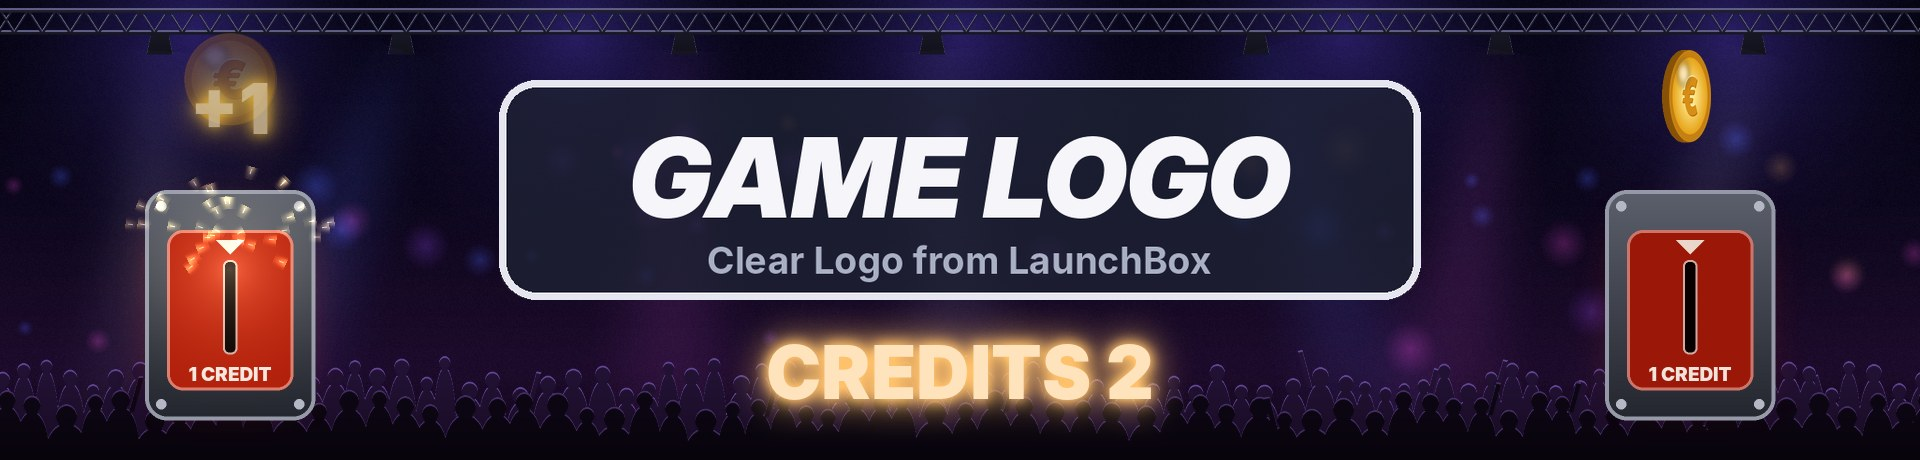
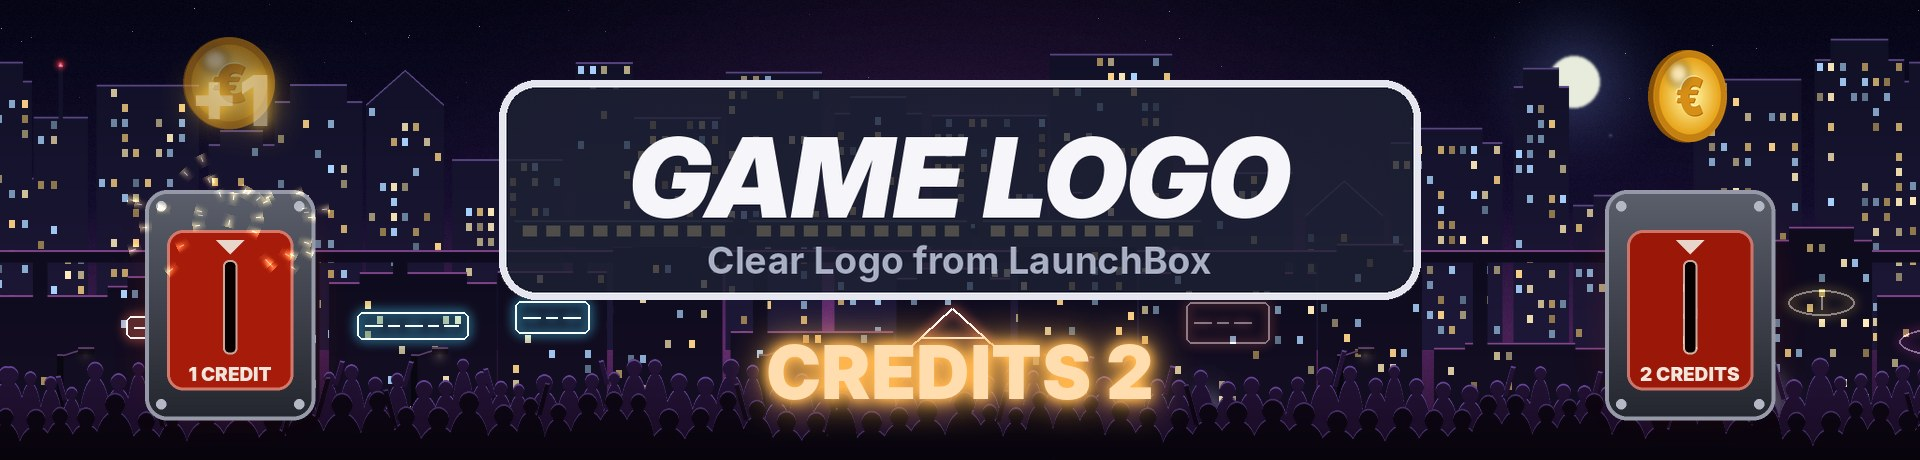
Docs: pictures and game tracking brought up to 1.29.3
The LED pictures of the README come from the code of today (title
without the maker, the timer between its lines), a new one shows the
simple panel of the shoot'em ups with its plane, and the HD coin screen
shows the doors of an MVS (1 credit on the left, 2 on the right).
tools/docs_images.py makes them again. PROGRESS.md tells the shooter
panel, the 693 Neo Geo sets recognized with RetroArch and the coins.

Claude-Session: https://claude.ai/code/session_01UHMmGB2iQAKSvNdTFigVJ4

diff --git a/tools/docs_images.py b/tools/docs_images.py
@@ -1,0 +1,173 @@
+"""Pictures of the README (docs/images), made with the real code of ArcadeDMD and simulated values.
+
+Writes led_fight.gif (King of Fighters '98, from the game logo to the fight), led_metal_slug.gif, led_shooter.gif
+(Aero Fighters 2, the simple panel of the shoot'em ups and its plane) and hd_coin_screen.jpg (the coin screen of an
+MVS, 1 credit on the left and 2 on the right). In English, like the other pictures. The game logo is the
+"GAME LOGO / Clear Logo from LaunchBox" badge, kept in a fake LaunchBox folder, never a real logo.
+
+Images du README faites avec le vrai code d'ArcadeDMD et des valeurs simulées.
+
+usage: python tools/docs_images.py [out_folder]      (docs/images by default, needs pygame and Pillow)
+"""
+import os
+import shutil
+import subprocess
+import sys
+import tempfile
+import time
+
+ROOT = os.path.dirname(os.path.dirname(os.path.abspath(__file__)))
+os.environ["ARCADEDMD_LANG"] = "en"
+os.environ["SDL_VIDEODRIVER"] = "dummy"
+os.environ.setdefault("SDL_AUDIODRIVER", "dummy")
+TMP = tempfile.mkdtemp(prefix="arcadedmd_docs_")
+KIT = os.path.join(TMP, "kit")
+shutil.copytree(ROOT, KIT, ignore=shutil.ignore_patterns(".git", "runtime", "__pycache__", "learned", "obs", "dist", "artwork",
+                                                         "appris"))
+sys.path.insert(0, KIT)
+import pygame  # noqa: E402
+from PIL import Image, ImageDraw, ImageFont  # noqa: E402
+from dmd import app  # noqa: E402
+from dmd.i18n import set_language  # noqa: E402
+from dmd.memvalues import derive  # noqa: E402
+from dmd.outputs import LedRenderer, PreviewOutput  # noqa: E402
+
+set_language("en")
+OUT = sys.argv[1] if len(sys.argv) > 1 else os.path.join(ROOT, "docs", "images")
+W, H = 1920, 460
+FPS = 25
+LOG = app.Logger(None, echo=False)
+CFG = app.load_config(KIT, LOG)
+CFG = dict(CFG, retroarch={"enabled": False}, textfiles={"enabled": False})
+
+
+def placeholder_logo():
+    img = Image.new("RGBA", (1000, 250), (0, 0, 0, 0))
+    d = ImageDraw.Draw(img)
+    d.rounded_rectangle([8, 8, 992, 242], radius=40, fill=(30, 34, 52, 200), outline=(230, 230, 240, 255), width=8)
+    f = ImageFont.truetype(os.path.join(KIT, "fonts", "InterDisplay-BlackItalic.otf"), 118)
+    d.text((500, 112), "GAME LOGO", font=f, fill=(245, 245, 250, 255), anchor="mm")
+    f2 = ImageFont.truetype(os.path.join(KIT, "fonts", "Inter-Bold.otf"), 40)
+    d.text((500, 200), "Clear Logo from LaunchBox", font=f2, fill=(170, 176, 196, 255), anchor="mm")
+    return img
+
+
+LB = os.path.join(TMP, "launchbox")
+os.makedirs(os.path.join(LB, "Data", "Platforms"))
+os.makedirs(os.path.join(LB, "Images", "Arcade", "Clear Logo"))
+with open(os.path.join(LB, "Data", "Platforms", "Arcade.xml"), "w", encoding="utf-8") as f:
+    f.write('<?xml version="1.0" standalone="yes"?>\n<LaunchBox>\n  <Game><Title>The King of Fighters \'98: The Slugfest</Title>'
+            '<ApplicationPath>..\\Roms\\FBNeo\\kof98.zip</ApplicationPath><Platform>Arcade</Platform></Game>\n</LaunchBox>')
+placeholder_logo().save(os.path.join(LB, "Images", "Arcade", "Clear Logo", "The King of Fighters _98_ The Slugfest-01.png"))
+
+
+def hd_output():
+    out = PreviewOutput({"enabled": True, "x": 0, "y": 0, "width": W, "height": H, "mode": "always", "style": "hd",
+                         "launchbox": LB}, lambda m: None)
+    t0 = time.time()
+    while not out.hd_view.logos.ready and time.time() - t0 < 10:
+        time.sleep(0.05)
+    clock = [0.0]
+    out.hd_view.clock = lambda: clock[0]
+    return out, clock
+
+
+def save_gif(frames, path):
+    while len(frames) > 1 and frames[0].getextrema()[0][1] < 40 and frames[0].convert("L").getextrema()[1] < 40:
+        frames = frames[1:]                               # no black frames at the start / pas d'images noires au début
+    frames[0].save(path, save_all=True, append_images=frames[1:], duration=80, loop=0, optimize=True)
+    if shutil.which("gifsicle"):
+        subprocess.run(["gifsicle", "-O3", "--colors", "256", "--batch", path], check=False)
+    print(path, len(frames), "frames", os.path.getsize(path) // 1024, "KB")
+
+
+def led_fight():
+    """King of Fighters '98: the logo, the coin screen, two coins, PRESS START, then the fight."""
+    out, clock = hd_output()
+    eng = app.Engine(KIT, CFG, [out], LOG, demo_game="kof98")
+    eng.sim = None                                    # values driven here / valeurs pilotées ici
+    eng.demo_until = None
+    for k in ("health", "health_p2", "time"):
+        eng.state.values.pop(k, None)
+    v = {"p1_mode": 0, "p2_mode": 0, "credits": 0, "score": 0, "backdrop": 5, "stage": 0,
+         "_p1_lost": 0, "_p1_ch0": 0, "_p1_ch1": 1, "_p1_ch2": 2, "_p1_ord0": 0, "_p1_ord1": 1, "_p1_ord2": 2,
+         "_p2_lost": 0, "_p2_ch0": 21, "_p2_ch1": 22, "_p2_ch2": 23, "_p2_ord0": 0, "_p2_ord1": 1, "_p2_ord2": 2}
+    events = [(3.4, {"credits": 1}), (4.9, {"credits": 2}),
+              (9.4, {"p1_mode": 1, "credits": 1, "health": 100, "health_p2": 100, "time": 60}),
+              (10.6, {"health_p2": 88, "score": 600}), (11.1, {"health_p2": 80, "score": 1000}), (11.5, {"health": 92}),
+              (12.2, {"health_p2": 62, "score": 2800})]
+    led = LedRenderer(6)
+    frames, tick = [], 10.4
+    for i in range(int(13.0 * FPS)):
+        t = i / FPS
+        clock[0] = t
+        while events and events[0][0] <= t:
+            v.update(events.pop(0)[1])
+        if v.get("time") and t >= tick:
+            v["time"] -= 1
+            tick += 1.0
+        for k, val in v.items():
+            eng.state.update(k, val, t)
+        if eng.derived:
+            for k, val in derive(eng.derived, eng.state.values).items():
+                eng.state.update(k, val, t, quiet=True)
+        frame = eng.step(t)
+        out.hd_next = 0.0
+        out.send(frame)
+        if i % 2 == 0:
+            frames.append(led.render(frame).convert("RGB"))
+    out.close()
+    save_gif(frames, os.path.join(OUT, "led_fight.gif"))
+
+
+def led_demo(game, name, t_from, t_to):
+    """The demo of a game, as demo_neogeo.bat plays it. / La démo d'un jeu."""
+    eng = app.Engine(KIT, CFG, [], LOG, demo_game=game)
+    led = LedRenderer(6)
+    frames = []
+    for i in range(int(t_to * FPS)):
+        t = i / FPS
+        frame = eng.step(t)
+        if t >= t_from and i % 2 == 0:
+            frames.append(led.render(frame).convert("RGB"))
+    save_gif(frames, os.path.join(OUT, name))
+
+
+def hd_coin_screen():
+    """The coin screen of an MVS under RetroArch: two coins on the left, the right door gives 2 credits."""
+    out, clock = hd_output()
+    eng = app.Engine(KIT, CFG, [out], LOG)
+    names = ["bios_request", "bios_mode", "bios_timer", "bios_mvs", "p1_mode", "p2_mode", "health", "health_p2", "time"]
+    eng.handle_event({"t": "start", "game": "kof98", "system": "kof98", "description": "The King of Fighters '98",
+                      "values": names}, 0.0, "retroarch")
+    bios = {"bios_request": 2, "bios_mode": 1, "bios_timer": 0, "bios_mvs": 0x80, "p1_mode": 0, "p2_mode": 0}
+    coins = [3.4, 4.9]
+    best = None
+    for i in range(int(6.2 * FPS)):
+        t = i / FPS
+        clock[0] = t
+        if coins and t >= coins[0]:
+            coins.pop(0)
+            eng.coin_in(0, t)
+            bios = dict(bios, bios_request=3, bios_timer=30)
+        eng.handle_event({"t": "v", "v": bios}, t, "retroarch")
+        frame = eng.step(t)
+        out.hd_next = 0.0
+        out.send(frame)
+        cd = out.hd_view.coins
+        if cd is not None and cd.last_land is not None and 0.34 <= t - cd.last_land <= 0.42 and cd.shown == 2:
+            best = Image.frombytes("RGB", (W, H), pygame.image.tostring(out.screen, "RGB"))
+    out.close()
+    path = os.path.join(OUT, "hd_coin_screen.jpg")
+    best.save(path, quality=88)
+    print(path, os.path.getsize(path) // 1024, "KB")
+
+
+if __name__ == "__main__":
+    os.makedirs(OUT, exist_ok=True)
+    pygame.init()
+    led_fight()
+    led_demo("mslug", "led_metal_slug.gif", 0.0, 12.0)
+    led_demo("sonicwi2", "led_shooter.gif", 11.0, 25.0)
+    hd_coin_screen()
+    shutil.rmtree(TMP, ignore_errors=True)

diff --git a/PROGRESS.md b/PROGRESS.md
@@ -4,6 +4,8 @@ Game by game, what ArcadeDMD already knows how to show, and what comes next. Upd
 
 Jeu par jeu, ce qu'ArcadeDMD sait déjà afficher, et ce qui vient ensuite. Mis à jour à chaque version.
 
+Up to date with version 1.29.3. / À jour de la version 1.29.3.
+
 For each game / Pour chaque jeu
 - **Values / Valeurs.** What is read from the game's memory, such as each player's score, lives, bombs, level or health. / Ce qui est lu dans la mémoire du jeu, comme le score de chaque joueur, les vies, les bombes, le niveau ou la vie.
 - **Panel / Dalle.** A 128 x 32 LED scene of its own (Pixelcade, ZeDMD). / Une scène LED 128 x 32 à son image.
@@ -99,6 +101,10 @@ Scène de combat commune sur la dalle, avec l'écran des pièces depuis la 1.16.
 The best-known games came first, and now every game of the list has a panel scene and an HD scene of its own. 🟡 in Values means the score still has to be learned with `learn.bat`, ⬜ that no value of the game is known yet.
 
 Les plus connus sont passés d'abord, et maintenant chaque jeu de la liste a sa scène de dalle et sa scène HD. 🟡 dans Valeurs veut dire que le score reste à apprendre avec `learn.bat`, ⬜ qu'aucune valeur du jeu n'est encore connue.
+
+Since 1.28 and 1.29, the fifteen shoot'em ups (Blazing Star, Pulstar, Last Resort, Aero Fighters 2 and 3, Strikers 1945 Plus, Ghost Pilots, Alpha Mission II, Viewpoint, Zed Blade, Prehistoric Isle 2, Andro Dunos, Captain Tomaday, Choutetsu Brikin'ger, Last Hope) have a simpler panel. The score in big digits, the ship that follows the stick and fires, the lives and the bombs, and the events of the game one at a time (BOMB!, POWER UP, 1UP...), with explosions drawn pixel by pixel. On the HD screen, their enemies blow up when the game scores points.
+
+Depuis la 1.28 et la 1.29, les quinze shoot'em up (Blazing Star, Pulstar, Last Resort, Aero Fighters 2 et 3, Strikers 1945 Plus, Ghost Pilots, Alpha Mission II, Viewpoint, Zed Blade, Prehistoric Isle 2, Andro Dunos, Captain Tomaday, Choutetsu Brikin'ger, Last Hope) ont une dalle plus simple. Le score en gros, le vaisseau qui suit le stick et tire, les vies et les bombes, et les événements du jeu un par un (BOMBE!, POWER UP, 1UP...), avec des explosions dessinées pixel par pixel. Sur l'écran HD, leurs ennemis explosent quand le jeu marque des points.
 
 | # | Game / Jeu | Genre | Values / Valeurs | Panel / Dalle | HD | Version |
 |---|---|---|---|---|---|---|
@@ -200,9 +206,29 @@ Les plus connus sont passés d'abord, et maintenant chaque jeu de la liste a sa 
 | 96 | Idol Mahjong Final Romance 2 | Mahjong | ⬜ | ✅ | ✅ | 1.27 |
 | 97 | Shougi no Tatsujin | Shogi | ⬜ | ✅ | ✅ | 1.27 |
 
-Bootlegs and hacks (Metal Slug 6, KOF 10th Anniversary, Crouching Tiger Hidden Dragon...) follow the game they come from.
+### Every Neo Geo set / Tous les sets Neo Geo (693 / 693)
 
-Les bootlegs et les hacks (Metal Slug 6, KOF 10th Anniversary, Crouching Tiger Hidden Dragon...) suivent le jeu d'origine.
+With MAME, a version of a game always took the file of its original game. Since 1.29.3 it is the same with RetroArch, for every Neo Geo set of FinalBurn Neo (`dmd/neogeo_sets.json`).
+
+Avec MAME, une version d'un jeu prenait déjà le fichier de son jeu d'origine. Depuis la 1.29.3 c'est pareil avec RetroArch, pour chaque set Neo Geo de FinalBurn Neo (`dmd/neogeo_sets.json`).
+
+| Sets | Recognized / Reconnus | Scene / Scène |
+|---|---|---|
+| Official games / Jeux officiels | 153 / 153 | their own, or the one of their genre for Treasure of the Caribbean / la leur, ou celle de leur genre pour Treasure of the Caribbean |
+| Versions | 100 / 100 | the one of the original game (Metal Slug 3 Fully Decrypted, KOF 96 bug fix...) / celle du jeu d'origine |
+| Bootlegs | 55 / 55 | the one of the original game, with their own name when they have one / celle du jeu d'origine, avec leur propre nom quand ils en ont un |
+| Hacks | 273 / 273 | the one of the original game, with their own name (KOF 2002 Magic Plus...) / celle du jeu d'origine, avec leur propre nom |
+| Prototypes | 14 / 14 | the one of the original game / celle du jeu d'origine |
+| Homebrew | 67 / 67 | the one of their genre (Xeno Crisis, Neo Thunder, Columns...) / celle de leur genre |
+| Demos / Démos | 31 / 31 | the one of their genre / celle de leur genre |
+
+The BIOS, the boards and the test programs are left out. / Le BIOS, les cartes et les programmes de test sont laissés de côté.
+
+### Coins with RetroArch / Les pièces avec RetroArch ✅
+
+The credits of an MVS are guessed from its BIOS since 1.29. Since 1.29.2, `coin_buttons.bat` lets ArcadeDMD read the two coin buttons itself, so every coin is seen with its side, during a game too, and counted like the MVS (1 credit on the left, 2 on the right). Since 1.29.3 the coin doors of the HD screen say it.
+
+Les crédits d'une MVS sont devinés d'après son BIOS depuis la 1.29. Depuis la 1.29.2, `coin_buttons.bat` permet à ArcadeDMD de lire lui-même les deux boutons des pièces. Chaque pièce est vue avec son côté, même en pleine partie, et comptée comme sur la MVS (1 crédit à gauche, 2 à droite). Depuis la 1.29.3 les monnayeurs de l'écran HD l'affichent.
 
 ## What comes next / La suite
 

diff --git a/README.fr.md b/README.fr.md
@@ -504,6 +504,8 @@ Dans les shoot'em up (Blazing Star, Pulstar, Last Resort, Aero Fighters 2 et 3, 
 
 La dalle de ces jeux reste simple pendant la partie. Le score en gros au milieu, ou le titre du jeu tant que le score n'est pas appris. Tes vies en bas à gauche (un avion et x2), tes bombes en bas à droite. Ni crédits ni INSERT COIN pendant la partie. Entre les deux vole ton vaisseau. Il suit ton stick et tire tant que tu tiens le bouton de tir (le BIOS de la Neo Geo les garde, avec MAME comme avec RetroArch), et vole tout seul tant que tu n'y as pas touché. À deux, les deux scores en haut, les vies et les bombes de chaque joueur en dessous, et les deux vaisseaux face à face. Tout le reste prend la dalle un instant, une chose à la fois, comme sur un flipper. BOMBE! et ses explosions, POWER UP puis MAX POWER, l'avion qui explose avec les vies qui restent, LAST LIFE, 1UP, ROUND 2 ou STAGE 2, SPEED UP, le SUPER SHOT de Strikers 1945 Plus, CONTINUE?, GAME OVER, PLAYER 1 et PLAYER 2 quand quelqu'un commence, et CRÉDIT 1 quand une pièce entre en pleine partie. Chaque ennemi détruit dans le jeu explose devant ton vaisseau, de la taille et au rythme des explosions de DOFLinx, une grosse pour un gros ennemi, et rien n'explose pendant un décompte de bonus. Tant que le score n'est pas appris, un ennemi explose devant lui de temps en temps pendant qu'il tire, comme sur l'écran HD. L'écran des pièces, quand personne ne joue, ne change pas.
 
+![Aero Fighters 2 sur une dalle LED 128x32, l'avion qui vole et tire, POWER UP, une pièce en pleine partie et BOMBE!](docs/images/led_shooter.gif)
+
 Tes propres animations (les GIF de DOFLinx ou de la Pixelcade par exemple) peuvent remplacer les nôtres sur la dalle. Mets-les dans un dossier `artwork` à côté d'`arcadedmd.py`, il n'est jamais publié et une mise à jour n'y touche pas. `artwork\boom.gif` est l'explosion d'un ennemi, `boom_big.gif` la grosse, `bomb.gif` et `shock.gif` la bombe, `super.gif` le super tir de Strikers 1945 Plus, `charge.gif` le tir chargé de Pulstar et `ship.gif` ton vaisseau (tourné vers la droite, environ 14 x 5). Pour un seul jeu, mets-les dans `artwork\<jeu>\` (`artwork\s1945p\boom.gif` par exemple). Un GIF de 128 x 32 se joue sur toute la dalle et son noir laisse voir la scène, mais quand son dessin tient au milieu (les explosions de DOFLinx), il est recadré et part à l'endroit de l'action.
 
 ![Blazing Star, Puzzle Bobble, Windjammers, Shock Troopers et Neo Turf Masters sur un marquee LCD, affichage HD](docs/images/hd_neogeo_games.jpg)

diff --git a/README.md b/README.md
@@ -504,6 +504,8 @@ In the shoot'em ups (Blazing Star, Pulstar, Last Resort, Aero Fighters 2 and 3, 
 
 The panel of these games keeps it simple during a game. The score in big digits in the middle, or the title of the game as long as the score has not been learned. Your lives at the bottom left (a plane and x2), your bombs at the bottom right. No credits and no INSERT COIN during a game. Between them flies your ship. It follows your stick and fires while you hold the fire button (the Neo Geo BIOS keeps them, with MAME as with RetroArch), and flies by itself until you touch them. With two players, both scores at the top, the lives and bombs of each player below, and both ships face to face. Everything else takes the panel for a moment, one thing at a time, as on a pinball. BOMB! and its explosions, POWER UP then MAX POWER, the plane that blows up with the lives left, LAST LIFE, 1UP, ROUND 2 or STAGE 2, SPEED UP, the SUPER SHOT of Strikers 1945 Plus, CONTINUE?, GAME OVER, PLAYER 1 and PLAYER 2 when someone starts, and CREDIT 1 when a coin goes in during a game. Each enemy destroyed in the game blows up ahead of your ship, the size and pace of the DOFLinx explosions, a big one for a big enemy, and nothing blows up during a bonus count. As long as the score has not been learned, an enemy blows up ahead of it now and then while it fires, as on the HD screen. The coin screen, when nobody plays, does not change.
 
+![Aero Fighters 2 on a 128x32 LED panel, the plane that flies and fires, POWER UP, a coin during a game and BOMB!](docs/images/led_shooter.gif)
+
 Your own animations (the GIFs of DOFLinx or of the Pixelcade, for example) can replace ours on the panel. Put them in an `artwork` folder next to `arcadedmd.py`, it is never published and an update never touches it. `artwork\boom.gif` is the explosion of an enemy, `boom_big.gif` the big one, `bomb.gif` and `shock.gif` the bomb, `super.gif` the super shot of Strikers 1945 Plus, `charge.gif` the charged shot of Pulstar and `ship.gif` your ship (facing right, about 14 x 5). For one game only, put them in `artwork\<game>\` (`artwork\s1945p\boom.gif`, for example). A 128 x 32 GIF plays over the whole panel and its black lets the scene show through, but when its drawing fits in the middle (the explosions of DOFLinx) it is cropped and plays at the place of the action.
 
 ![Blazing Star, Puzzle Bobble, Windjammers, Shock Troopers and Neo Turf Masters on an LCD marquee, HD display](docs/images/hd_neogeo_games.jpg)
